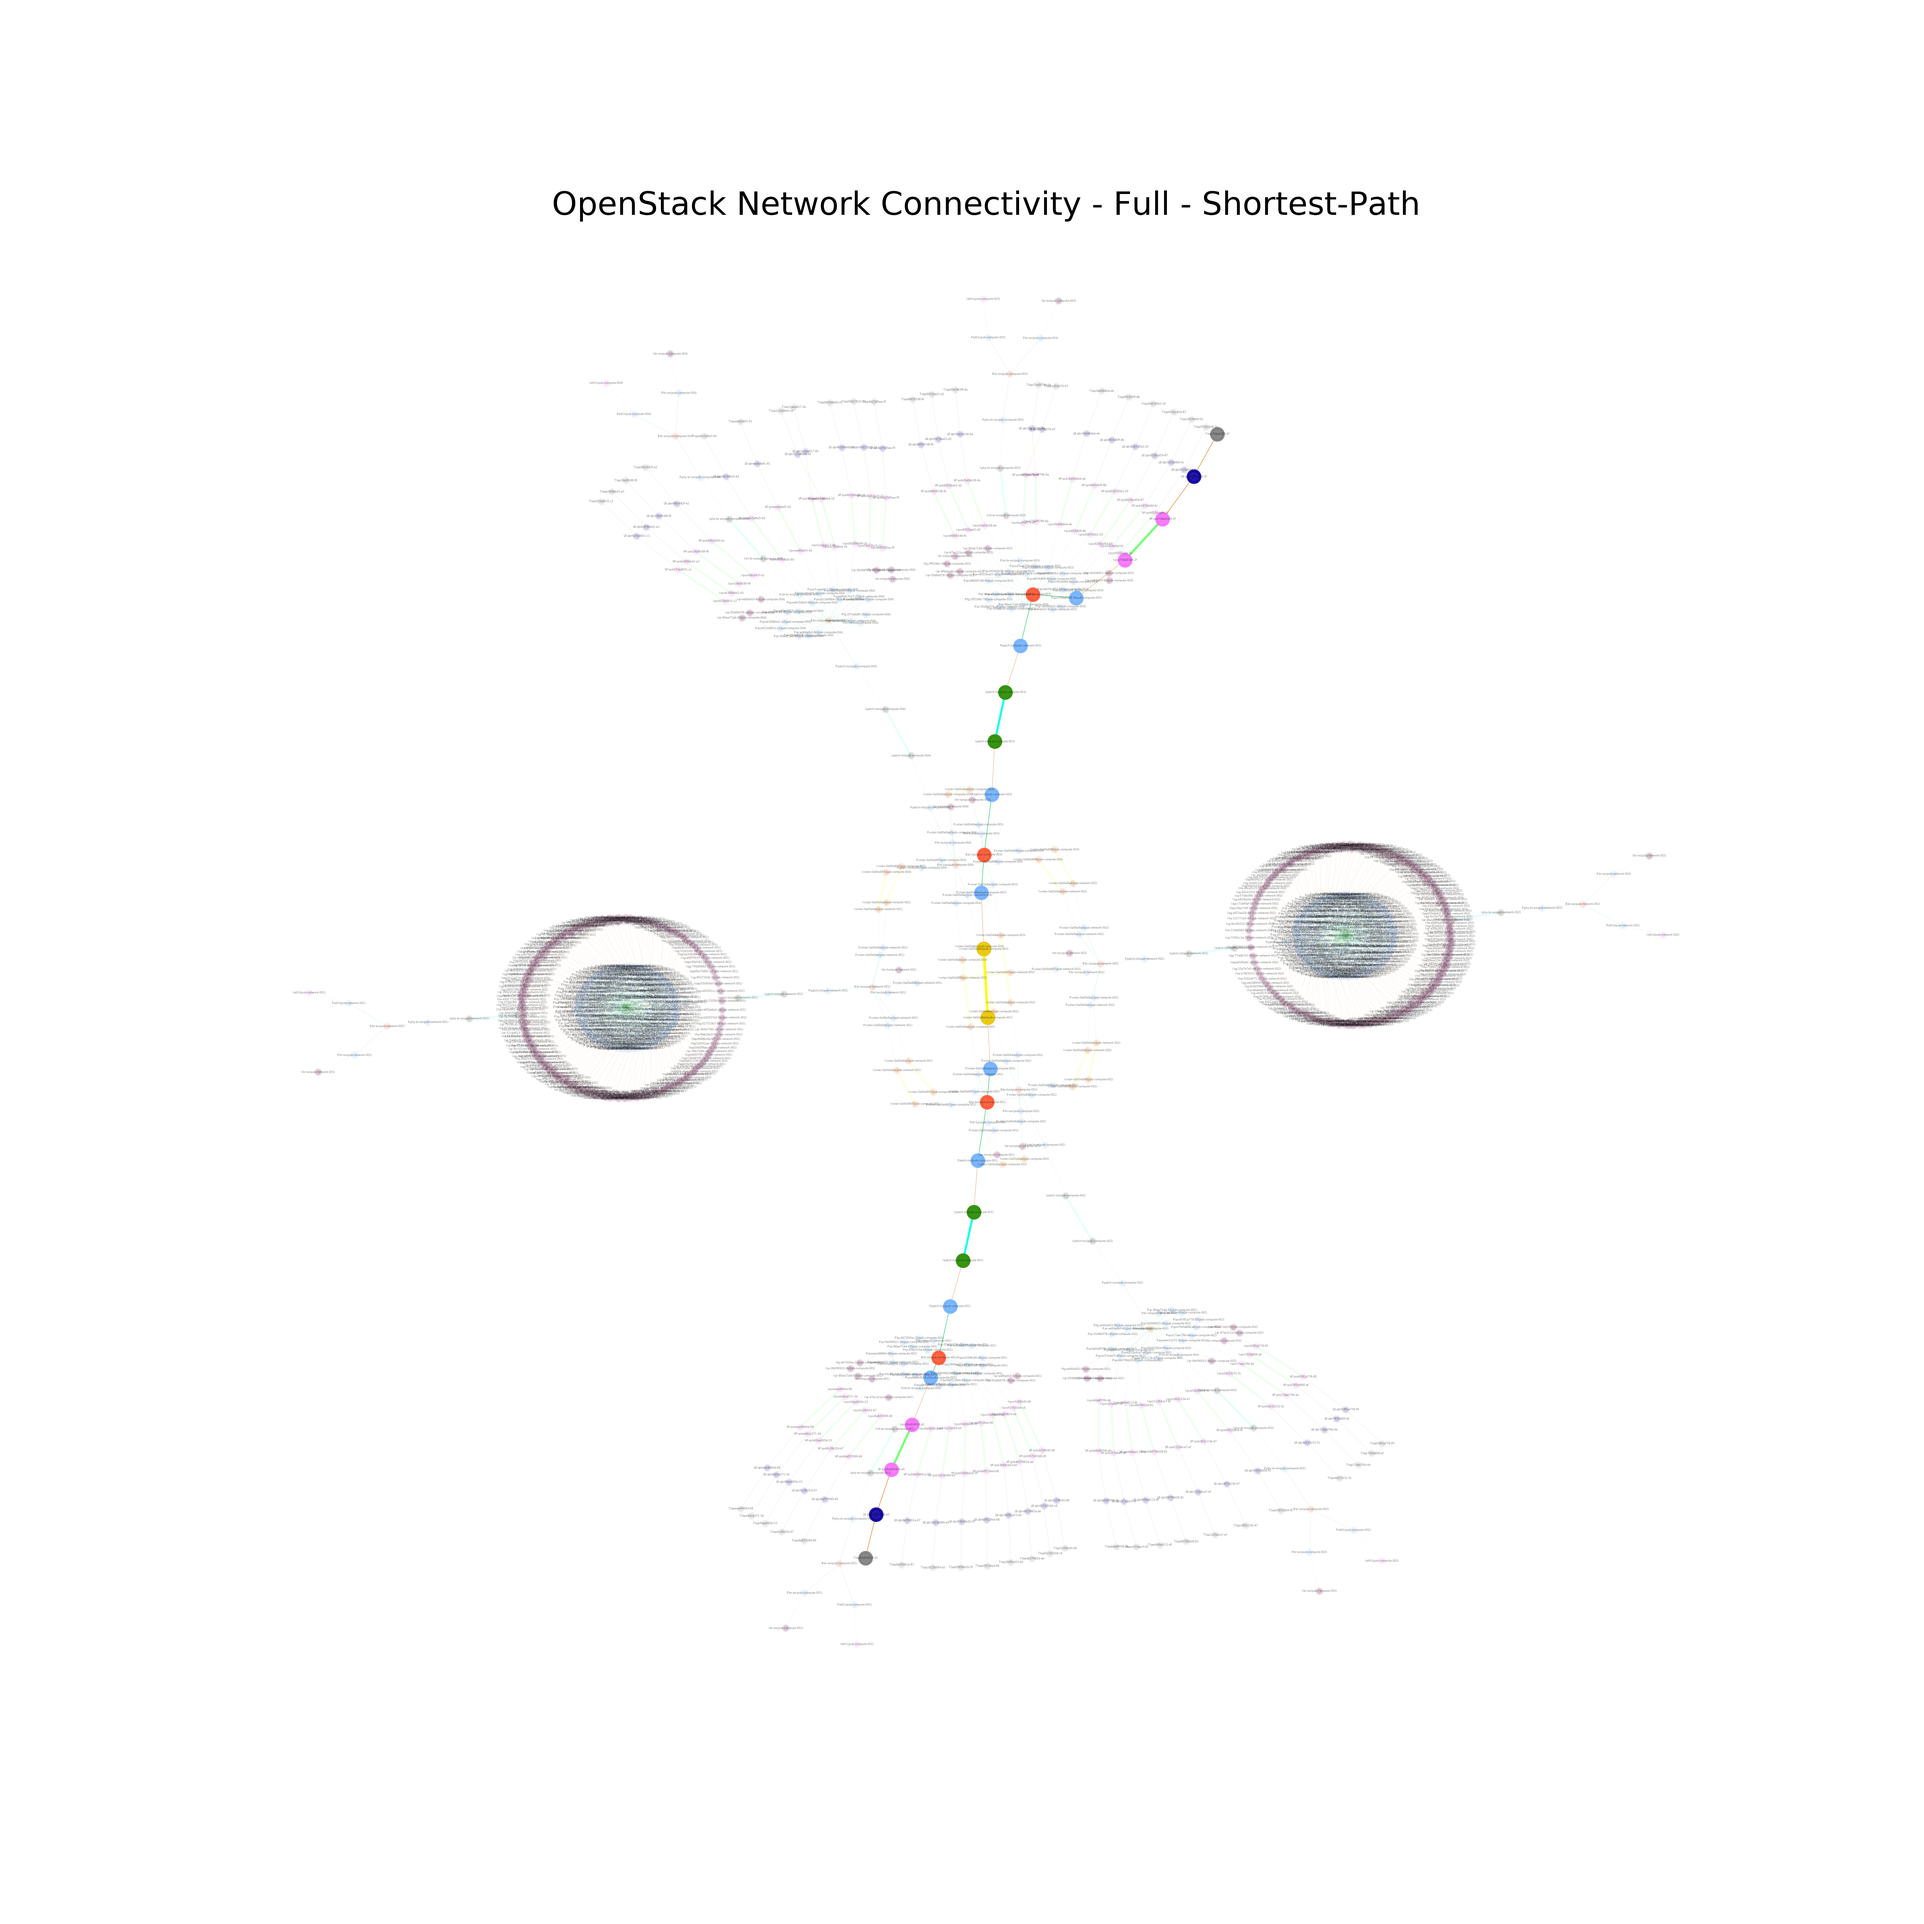
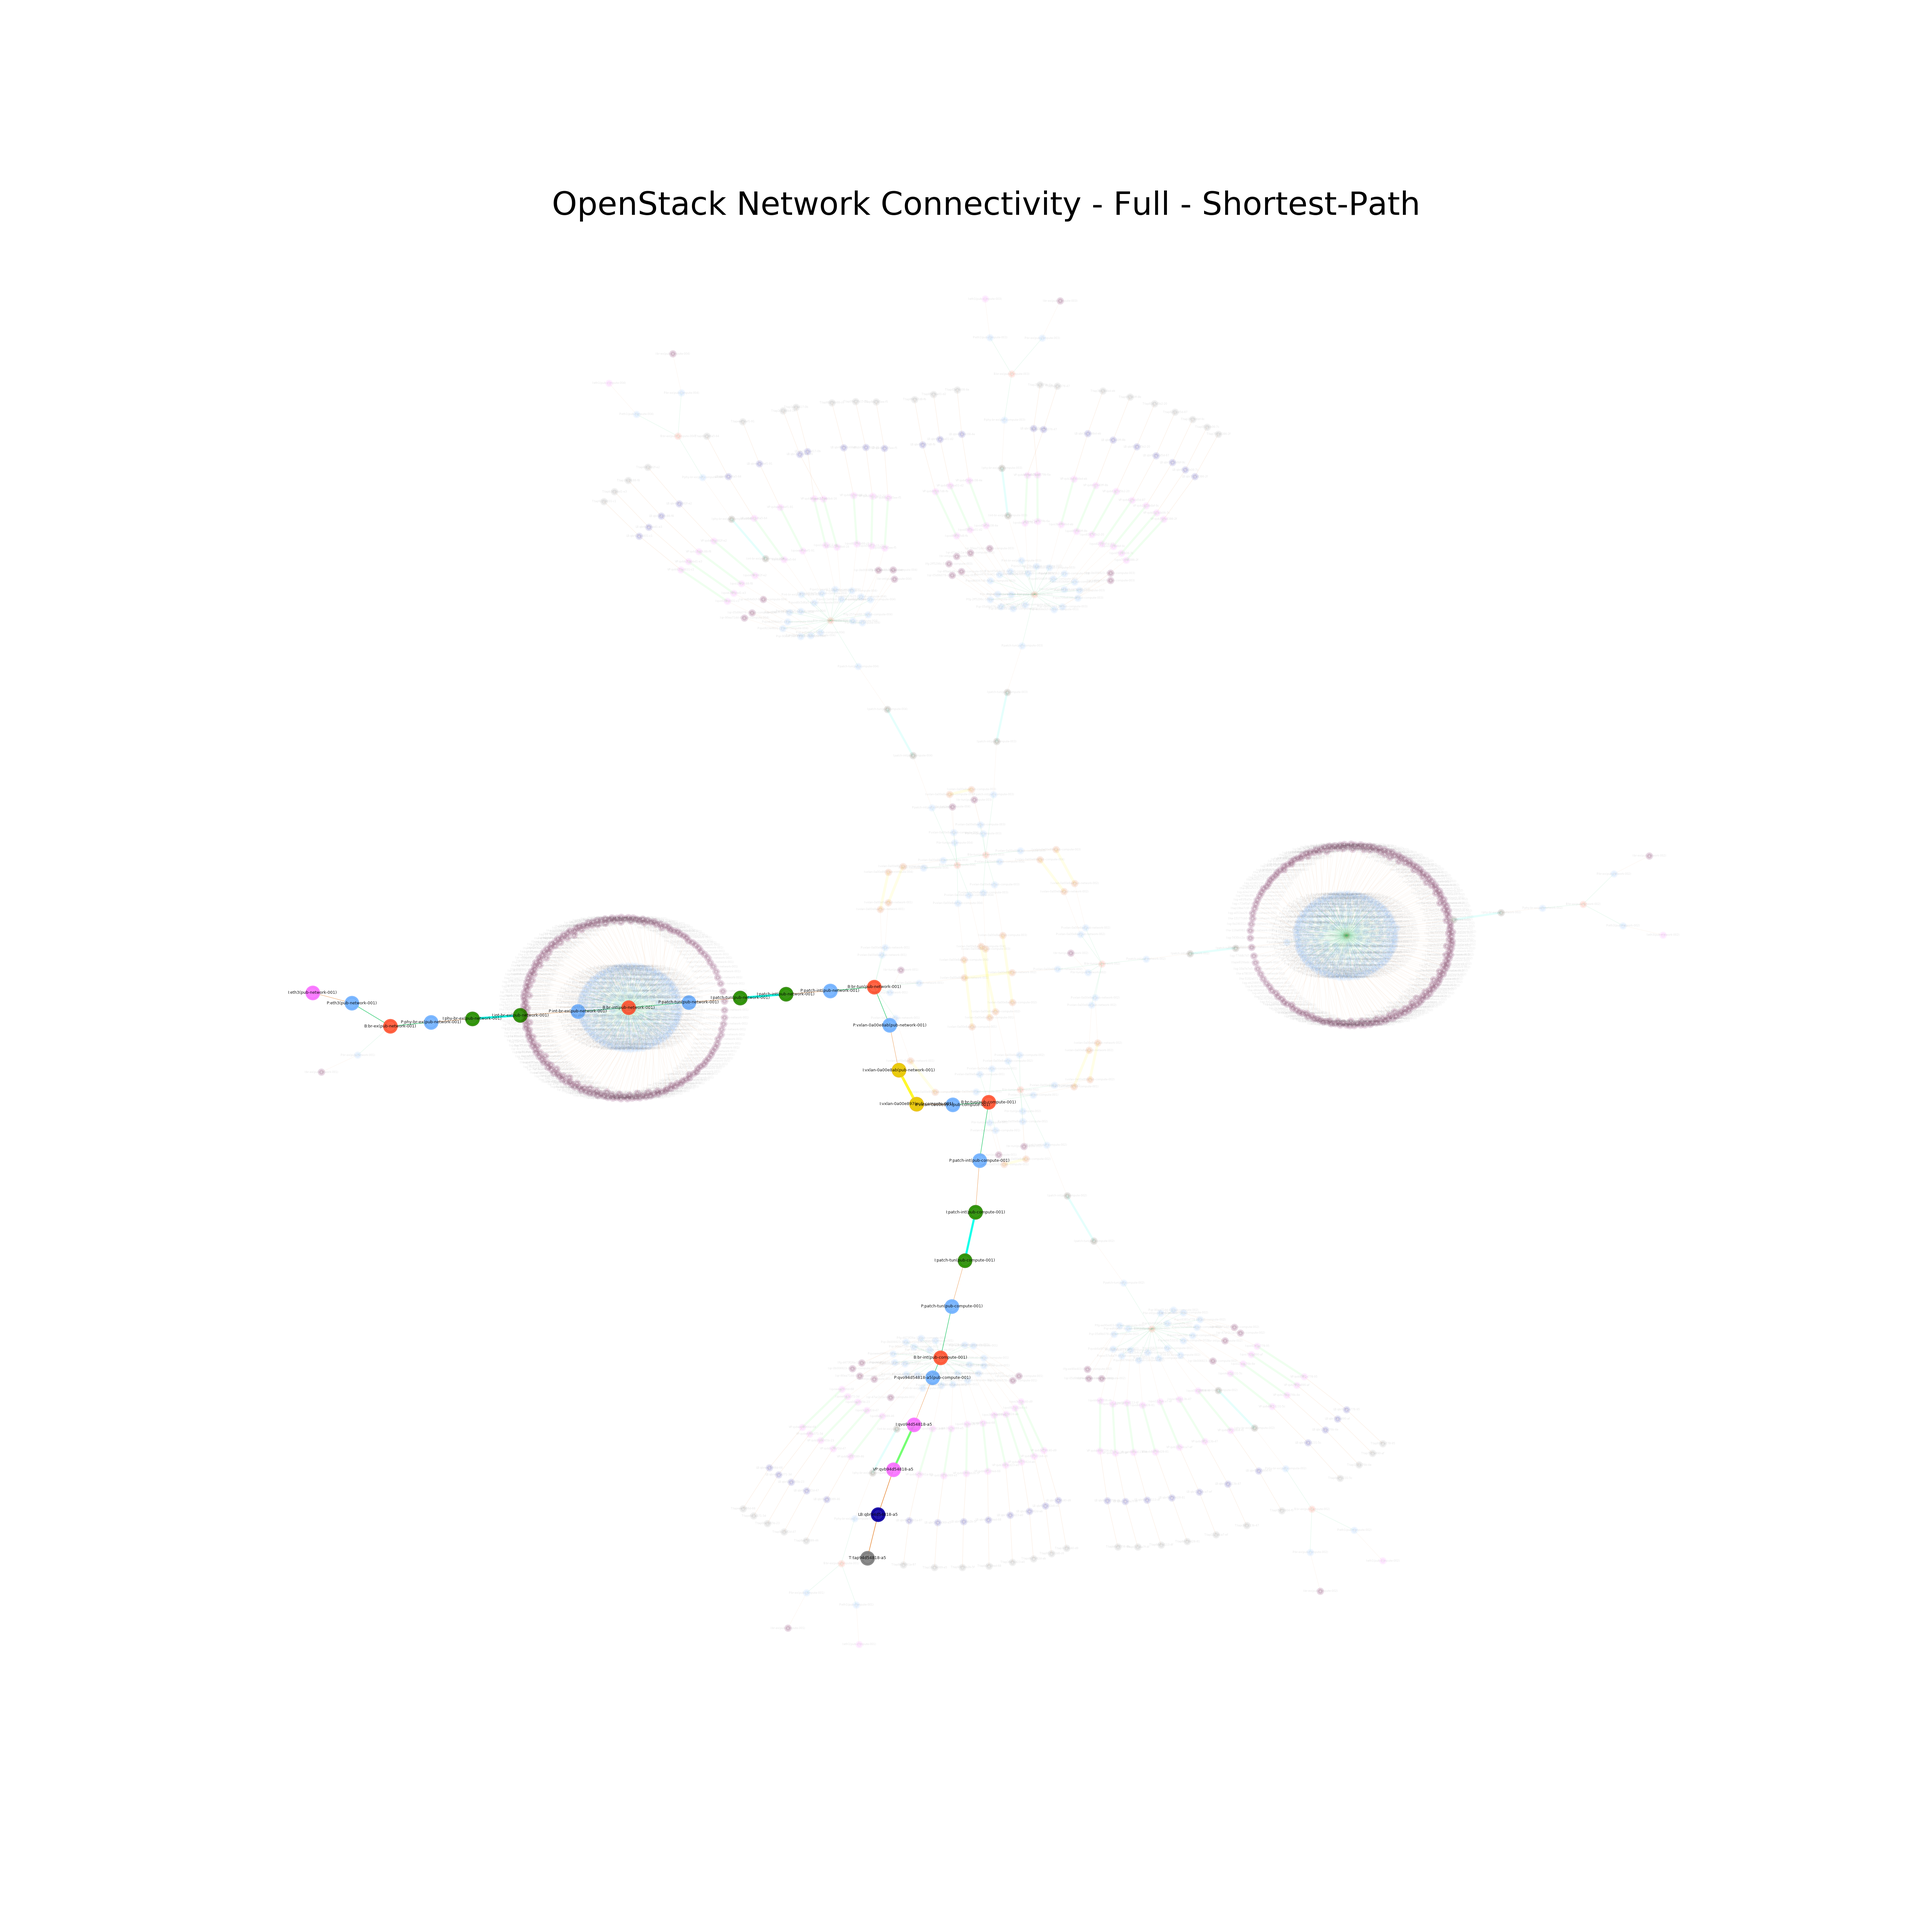
Full 최단 경로 표시 방식 업데이트 - 라벨 및 노드 크기 조정

diff --git a/viewer-full-shortest-path.py b/viewer-full-shortest-path.py
@@ -525,7 +525,15 @@ if __name__ == '__main__':
 	#nx.draw_networkx_nodes(G, pos, nodelist=nodes_if_link_state_down, with_labels=True, node_size=node_szie, node_shape='o', node_color='#FF0000', alpha=0.5, linewidths=1)
 
 	## Interface/Port/Bridge Node Label 그리기
-	nx.draw_networkx_labels(G, pos, font_size=1, font_family='sans-serif', alpha=0.5)
+	labels = {}
+	labels_sp = {}
+	for node in G.nodes():
+		if node not in shortest_path_list:
+			labels[node] = node
+		else:
+			labels_sp[node] = node
+	nx.draw_networkx_labels(G, pos, labels, font_size=1, font_family='sans-serif', alpha=0.1)
+	nx.draw_networkx_labels(G, pos, labels_sp, font_size=1.5, font_family='sans-serif', alpha=0.9)
 
 	## Edge 그리기
 	nx.draw_networkx_edges(G, pos, edgelist=edge_I2P, width=0.1, alpha=alpha_normal, edge_color='#E67E22')
